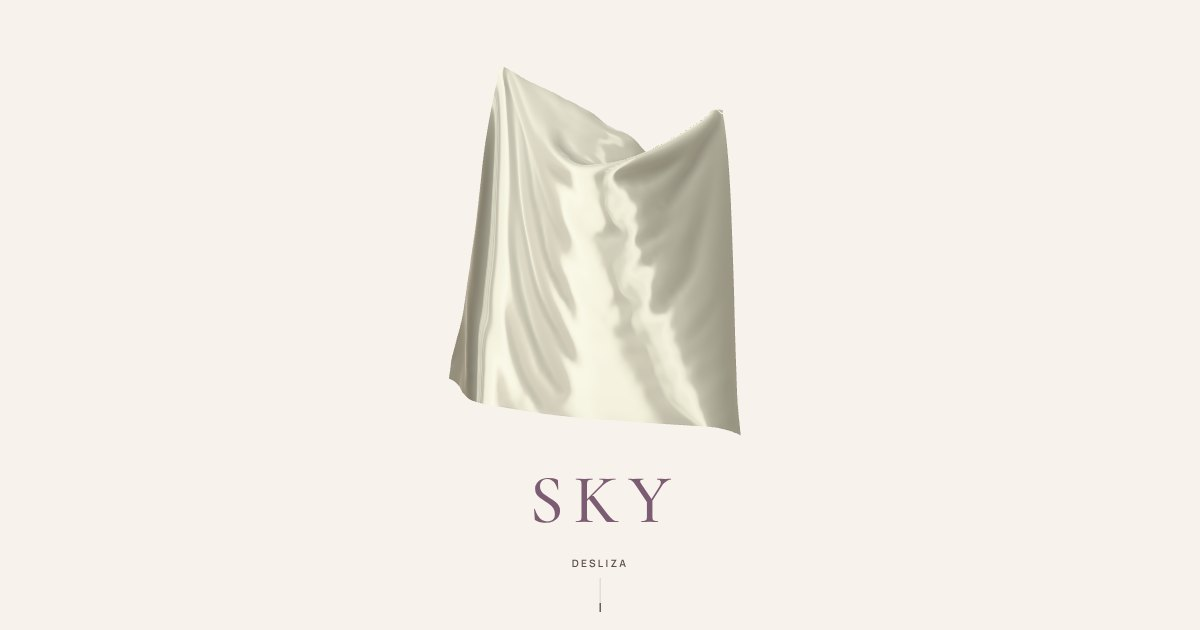
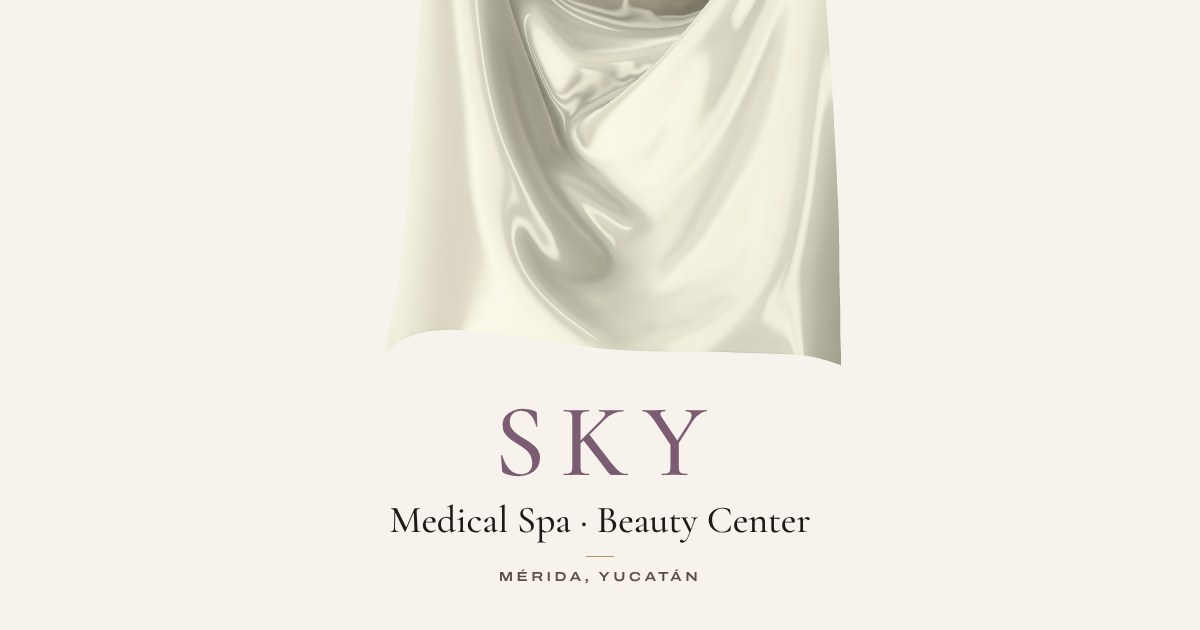
SKY: anteprima del link per demosky-alessiastudio.vercel.app
- og:url, og:image e twitter:* sul dominio vero; canonical
- nuova og.jpg (1200x630): seta, SKY malva, Medical Spa · Beauty Center, Mérida

Claude-Session: https://claude.ai/code/session_01Ex56TkotP8D7b3xe5QBfZB

Changed region(s): [[0.3083, 0.0, 0.7092, 0.8444], [0.4008, 0.8746, 0.5858, 0.9349]]

diff --git a/sky-medical-spa/index.html b/sky-medical-spa/index.html
@@ -15,14 +15,19 @@
     <meta property="og:locale" content="es_MX" />
     <meta property="og:site_name" content="SKY Medical Spa" />
     <meta property="og:title" content="SKY Medical Spa" />
-    <meta property="og:description" content="Faciales, masajes y depilación láser en Mérida. Vista previa del nuevo sitio, demo de Alessia Studio." />
-    <meta property="og:url" content="https://demo-skymedicalspa-alessiastudio.vercel.app/" />
-    <meta property="og:image" content="https://demo-skymedicalspa-alessiastudio.vercel.app/og.jpg" />
+    <meta property="og:description" content="Faciales, masajes y depilación láser · SKY Beauty Center. Mérida, Yucatán. Vista previa del nuevo sitio, demo de Alessia Studio." />
+    <meta property="og:url" content="https://demosky-alessiastudio.vercel.app/" />
+    <meta property="og:image" content="https://demosky-alessiastudio.vercel.app/og.jpg" />
+    <meta property="og:image:secure_url" content="https://demosky-alessiastudio.vercel.app/og.jpg" />
     <meta property="og:image:type" content="image/jpeg" />
     <meta property="og:image:width" content="1200" />
     <meta property="og:image:height" content="630" />
-    <meta property="og:image:alt" content="Un paño de seda sobre el nombre SKY Medical Spa" />
+    <meta property="og:image:alt" content="Un paño de seda color salvia sobre el nombre SKY, Medical Spa y Beauty Center en Mérida" />
     <meta name="twitter:card" content="summary_large_image" />
+    <meta name="twitter:title" content="SKY Medical Spa" />
+    <meta name="twitter:description" content="Faciales, masajes y depilación láser · SKY Beauty Center. Mérida, Yucatán." />
+    <meta name="twitter:image" content="https://demosky-alessiastudio.vercel.app/og.jpg" />
+    <link rel="canonical" href="https://demosky-alessiastudio.vercel.app/" />
     <script>
       // SKY aparece cuando su tipografía está lista (sin saltos de tamaño al abrir)
       document.documentElement.classList.add('fonts-wait');

diff --git a/sky-medical-spa/README.md b/sky-medical-spa/README.md
@@ -77,6 +77,12 @@ Presi da una scheda pubblica (Fresha), da verificare:
 - Profilo Instagram, testi di Faciales (proposti), orari se si vogliono aggiungere
 
 ## Anteprima del link
-`public/og.jpg` (1200×630), `public/apple-touch-icon.png` e `public/favicon-96.png` (SKY malva su salvia).
-I tag in `index.html` puntano a `https://demo-skymedicalspa-alessiastudio.vercel.app/`:
-se il dominio su Vercel è un altro, aggiornare `og:url` e `og:image`.
+Il sito è su **https://demosky-alessiastudio.vercel.app**. L'anteprima che compare quando si
+manda il link (WhatsApp, iMessage, Instagram, Facebook) è `public/og.jpg` (1200×630: seta,
+SKY in malva, "Medical Spa · Beauty Center", Mérida). I tag `og:` e `twitter:` in
+`index.html` puntano a quel dominio: se cambia, aggiornarli.
+
+**Su Vercel va caricata la cartella intera** (`npm run build` → `dist/`: `index.html`,
+`assets/`, `og.jpg`, icone). Con il solo file HTML unico l'immagine dell'anteprima non esiste
+sul server e il link resta senza foto. WhatsApp ricorda le anteprime già viste: per vedere
+quella nuova si può mandare il link con `?v=2` in fondo.
